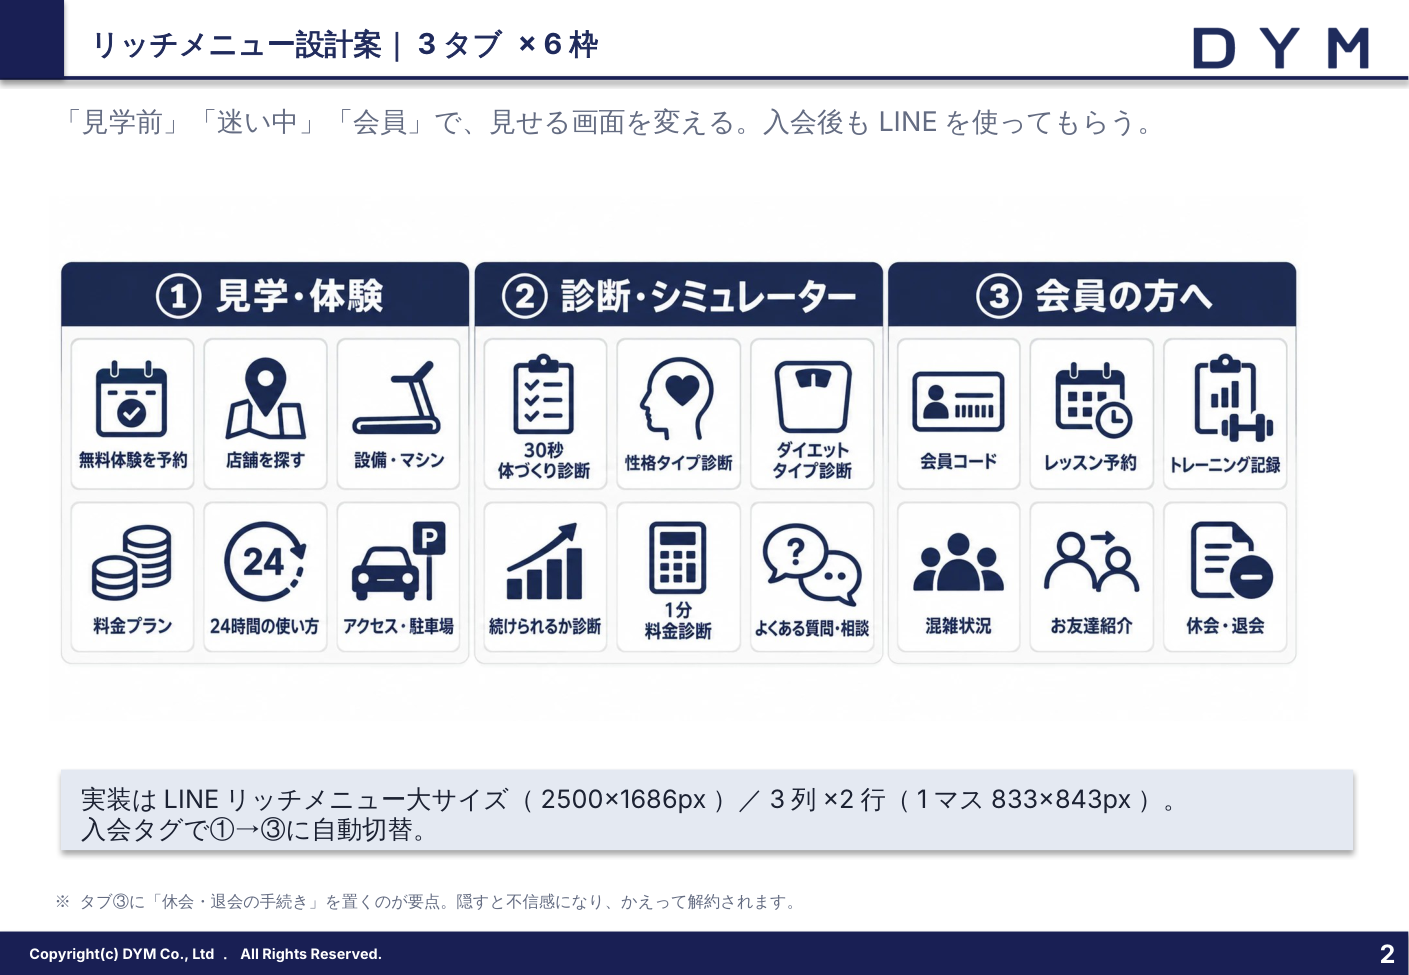
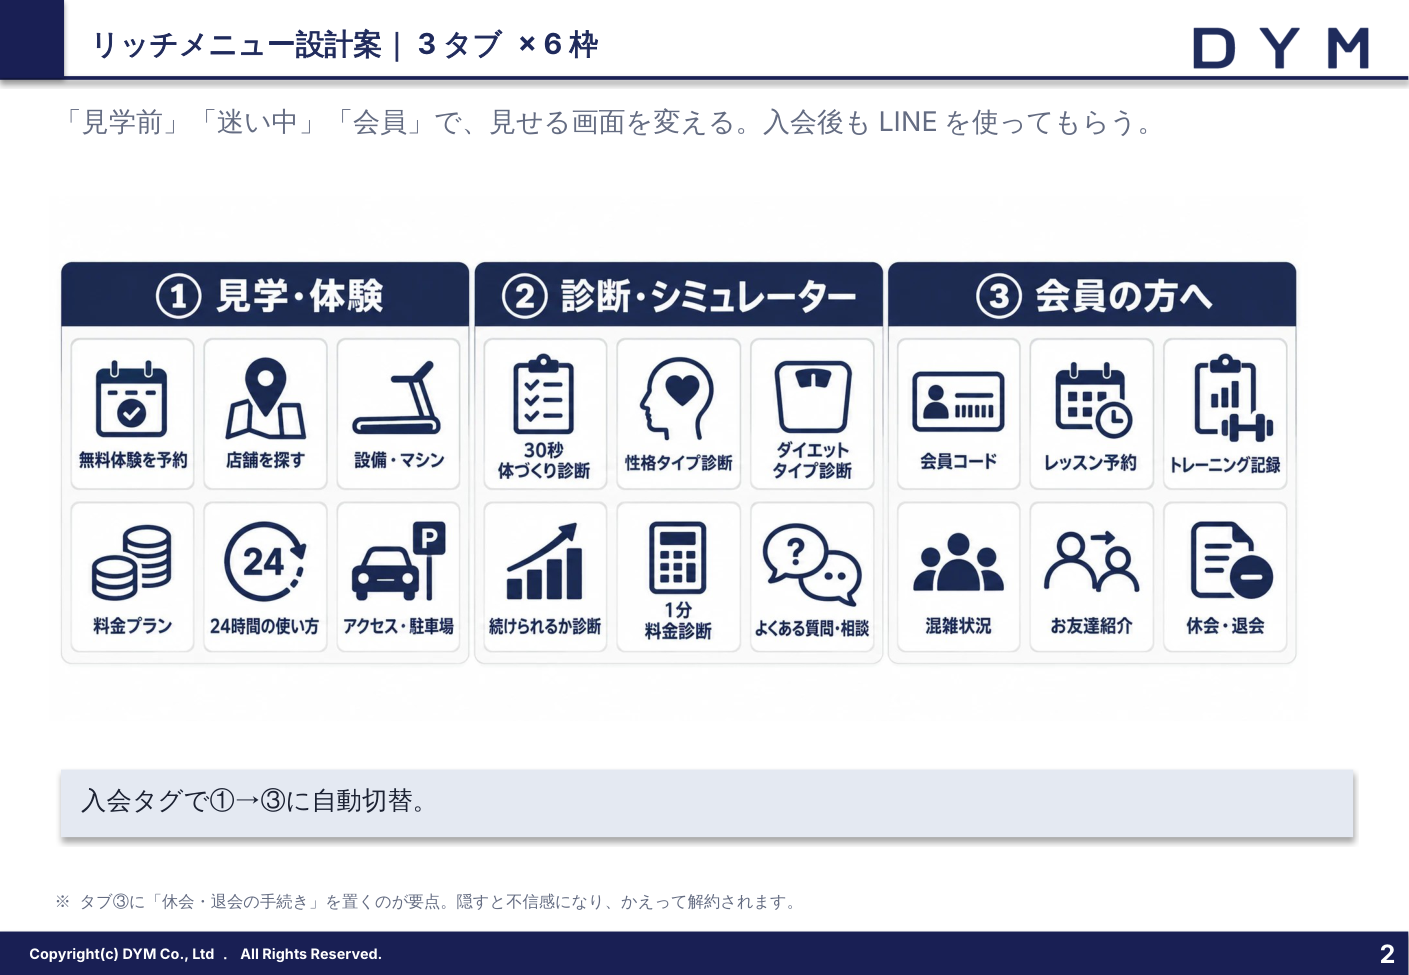
ジム・フィットネス業界の試作：リッチメニューの画像サイズの表示を外す
Claude-Session: https://claude.ai/code/session_011sJZioiJqWw6CPFiGtkyLk

Changed region(s): [[0.0312, 0.8, 0.9681, 0.8923]]

diff --git a/_build/build_fitness_step_shindan.py b/_build/build_fitness_step_shindan.py
@@ -136,6 +136,11 @@ def main(src, out):
         sh._element.getparent().remove(sh._element)
     swap_image(keep[1], 33, IMG27)
     swap_image(keep[2], 33, IMG28)
+    for k in (keep[1], keep[2]):                               # 画像サイズ（2500×1686px など）の表示は外す（殿村さん）
+        set_paras(next(sh for sh in k.shapes if sh.shape_id == 30), ["入会タグで①→③に自動切替。"])
+    box, txt = (next(sh for sh in keep[1].shapes if sh.shape_id == i) for i in (29, 30))   # 27は1行になったので枠を28と同じ高さに
+    box.height = Inches(0.52)
+    txt.top, txt.height = box.top + Inches(0.11), Inches(0.3)
     s = keep[0]
     by = {sh.shape_id: sh for sh in s.shapes}
 
